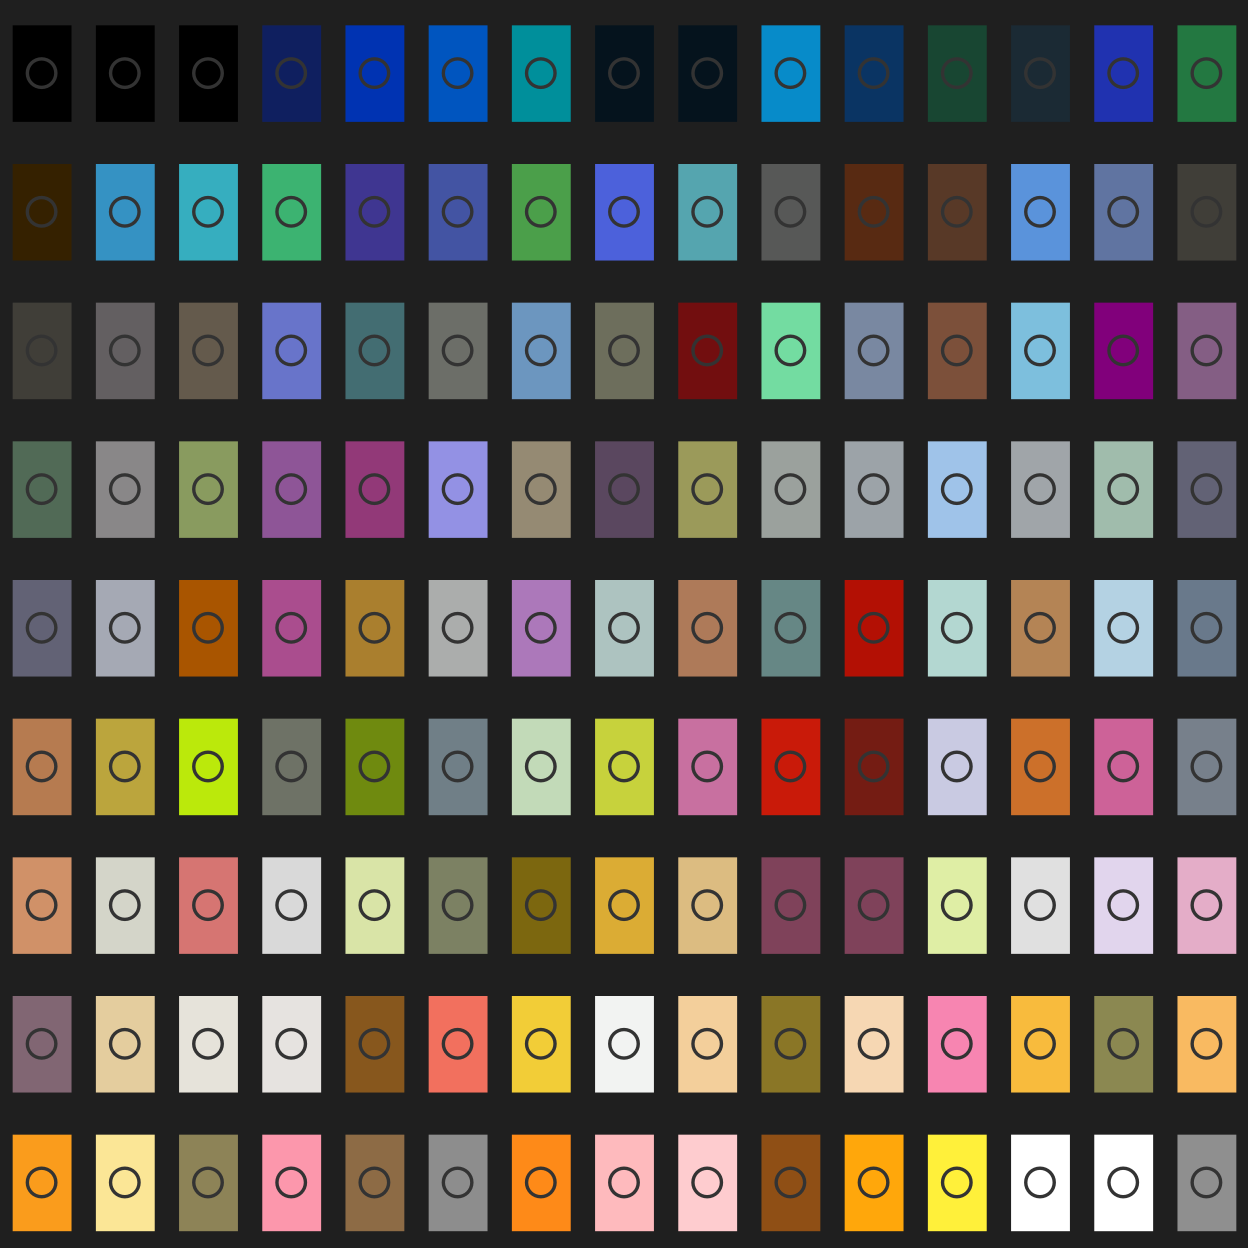
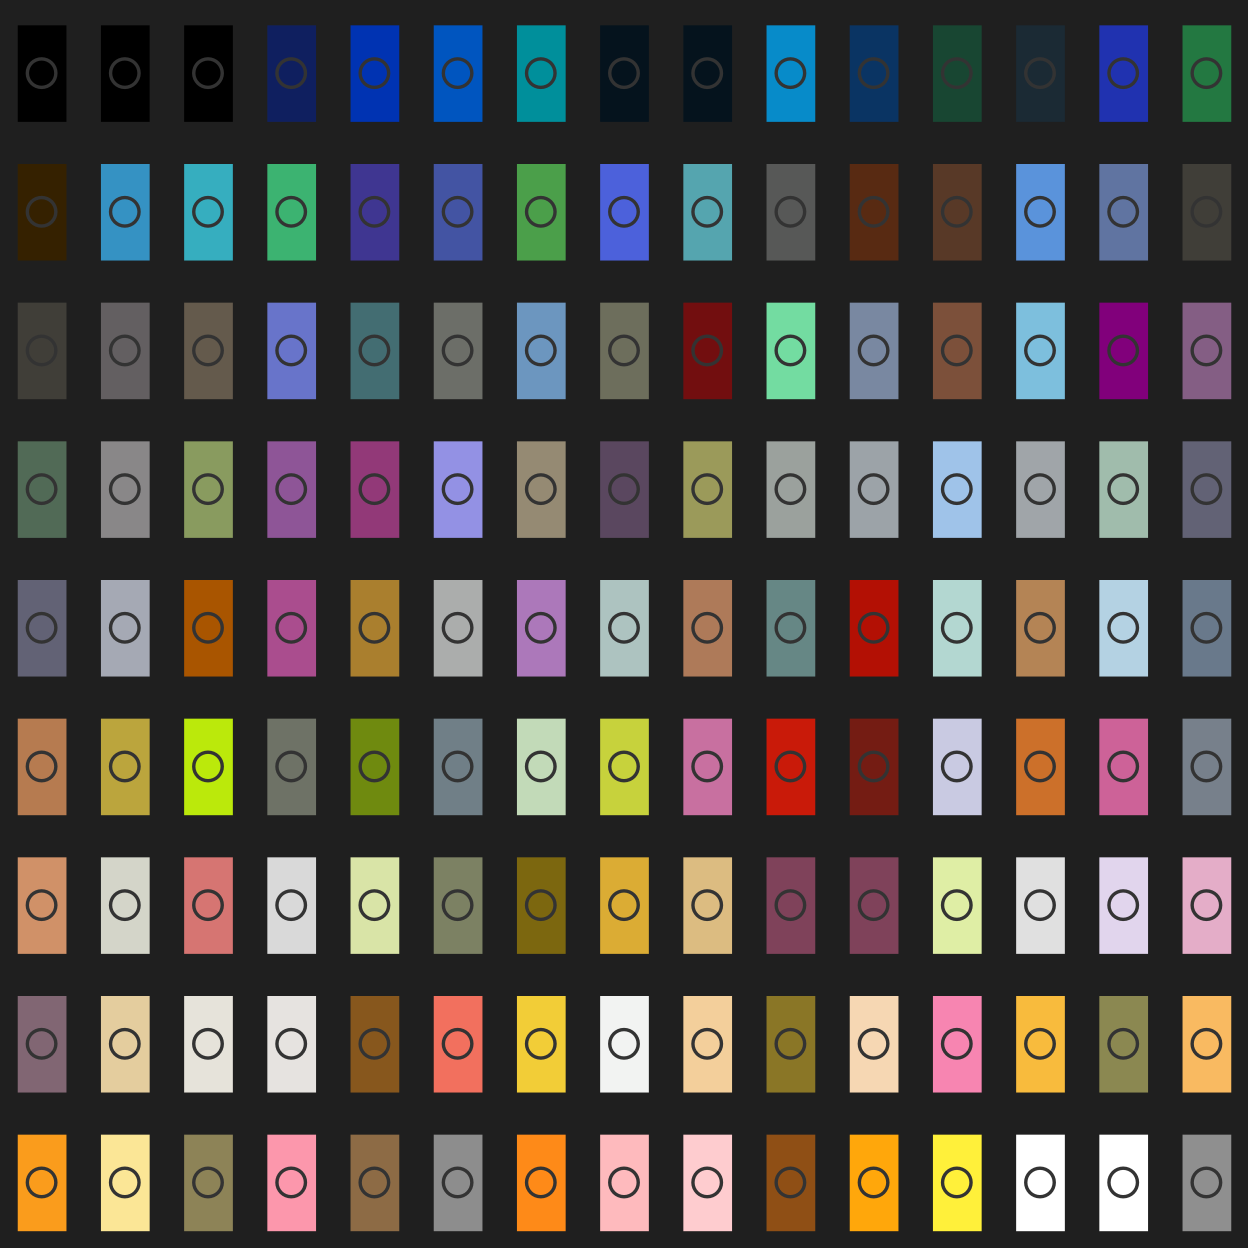
copy-edit lego1

diff --git a/content/post/lego-sql-part1.html b/content/post/lego-sql-part1.html
@@ -1,30 +1,37 @@
 ---
-title: "Exploring the Lego dataset with SQL and dplyr"
+title: "Exploring the Lego dataset with Postgres and dplyr"
 author: "Nathanael Aff"
 date: 2017-07-25T23:13:14-05:00
-categories: ["R", "Statistics"]
+categories: ["Data Science","R" ]
 tags: ["R", "SQL", "eda"]
 ---
 
 
 
-<div id="databases-and-r-analysis" class="section level1">
-<h1>Databases and R analysis</h1>
-<p>There are a number of reasons why using relational databases for your data analyses can be a good practice: doing so requires cleaning and tidying your data, it helps preserve data integrity, and it eases the memory burden of locally analyzing larger datasets. In this tutorial, we will be using the <a href="https://www.kaggle.com/rtatman/lego-database">lego dataset</a>. It’s moderately sized at 3 MB and the data comes from a relational database, so it has already been cleaned and <a href="https://en.wikipedia.org/wiki/Database_normalization">normalized</a>. This means we can focus on creating and querying the database.</p>
-<p>The main goal of this and a planned follow-up tutorial is to introduce several packages useful for handling SQL databases in R. In this tutorial, we will walk through setting up a database and tables using the <code>RPostgreSQL</code> package. In part two we will use the data-manipulation ‘verbs’ from the <code>dplyr</code> package to query and transform the data.</p>
-<p>For the most part, everything will be done from within R and commands should run on any R installation. The major exception is the initial installation of a Postgres database, but I will point to resources for installing and setting up a user in Postgres. The post should be accessible to a beginner to intermediate R user. Some familiarity with SQL syntax and your systems command line might be helpful.</p>
+<p>There are a number of reasons why using relational databases for your data analyses can be a good practice: doing so requires cleaning and tidying your data, it helps preserve data integrity, and it means you can avoid loading a full dataset into memory. In this tutorial, we will be using the <a href="https://www.kaggle.com/rtatman/lego-database">lego dataset</a>. It’s moderately sized at 3 MB and the data comes from a relational database, so it has already been cleaned and <a href="https://en.wikipedia.org/wiki/Database_normalization">normalized</a>. This means we can focus on creating and querying the database.</p>
+<p>The main goal of this and a planned follow-up tutorial is to introduce several packages useful for handling SQL databases in R. In this tutorial, we will walk through setting up a Postgres database with the <code>RPostgreSQL</code> package. The <code>RPostgreSQL</code> package is one of several packages that use the standardized interface to relational databases provided by the <code>DBI</code> package. This means that, aside from setting up the initial connection to the database, the code here could be used with another database for which the <code>DBI</code> interface has been implemented. For example, the <code>RMySQL</code> and <code>RSQLite</code> are available for the SQLite and MySQL databases.</p>
+<p>In part two we use the data manipulation verbs provided by the <code>dplyr</code> package to query and transform the data. The <code>dplyr</code> package allows you to select, filter, and mutate data stored in a database directly and without the need for using the full-fledged SQL commands. RStudio has a nice overview of database related packages <a href="https://db.rstudio.com/">here</a>.</p>
+<p>For the most part, everything will be done from within R and commands the code should run on any R installation. The major exception is the initial installation of a Postgres database, but I will point to resources for installing and setting up a user in Postgres. There are two other small exceptions and I’ll point this out as they come up. The post should be accessible to a beginner to intermediate R user. Some familiarity with SQL syntax and your systems command line might be helpful.</p>
 <p>The lego dataset can be downloaded manually from <a href="https://www.kaggle.com/rtatman/lego-database">Kaggle</a> with an account. I have mirrored the dataset on S3 to simplify the download step.</p>
 <p>Before getting started install <a href="https://www.postgresql.org/download/">postgreSQL</a>. See the <a href="https://wiki.postgresql.org/wiki/Detailed_installation_guides">installation page</a> for more detailed instruction and there are more <a href="http://www.postgresqltutorial.com/">tutorials here</a>. Once installed you should have a <strong>user</strong> and <strong>password</strong> with which you can set up a database.</p>
+<div id="related-tutorials" class="section level3">
+<h3>Related Tutorials</h3>
+<ul>
+<li><p><a href="http://www.datacarpentry.org/R-ecology-lesson/05-r-and-databases.html">This Data Carpentry</a> tutorial gives an introduction to using <code>dplyr</code> with SQLite and jumps directly into using <code>dplyr</code> syntax.</p></li>
+<li><p><a href="https://channel9.msdn.com/Events/useR-international-R-User-conferences/useR-International-R-User-2017-Conference/Interacting-with-databases-from-Shiny">This UseR2017 talk</a> by Barbara Borge Ribeiro give a quick overview of programmatically accessing relational databases from R</p></li>
+<li><p>Software Carpentry has a introductory tutorial for using databases and SQL which includes lessons for Python and R <a href="https://swcarpentry.github.io/sql-novice-survey/">here</a>.</p></li>
+</ul>
+</div>
 <div id="setup-and-download" class="section level2">
 <h2>Setup and download</h2>
-<p>In addition to <code>dplyr</code> and <code>RPostgreSQL</code>, we will use the <code>readr</code> package was has an enhanced method for reading csv files.</p>
+<p>In addition to <code>dplyr</code> and <code>RPostgreSQL</code>, we will use the <code>readr</code> package was has an enhanced method for reading csv files. Throughout the code I will be using the ‘::’ operator to identify the namespace R searches for function calls from these packages. Calling functions this way avoids the need to load a package using <code>library()</code> or <code>require()</code>, and it makes explicit what package individual functions come from. The exception is the pipe operator “%&gt;%”, which I use the <code>import</code> package to make available to the current session.</p>
 <pre class="r"><code># install.packages(&quot;dplyr&quot;)
 # install.packages(&quot;RPostgreSQL&quot;)
 # install.packags(&quot;readr&quot;)
-library(readr)
-library(dplyr)
-library(RPostgreSQL)</code></pre>
-<p>Create a project directory – I’ll be calling it ‘lego-project’ – and set your current directory to that folder. There are a lot of unhelpful warnings so I’m suppressing those for the session by setting the option <code>options(warn=-1)</code>.</p>
+# install.packages(&quot;import&quot;) 
+# Make pipe available -- added to &quot;imports&quot; environment
+import::from(dplyr, &quot;%&gt;%&quot;)</code></pre>
+<p>First, we need to create a project directory – I’ll be calling it ‘lego-project’ – and set your current directory to that folder. There are a lot of unhelpful warnings so I’m suppressing those for the session by setting the option <code>options(warn=-1)</code>.</p>
 <pre class="r"><code>setwd(&quot;~/path/to/my/lego-project&quot;)
 # Supress warnings for this session
 options(warn=-1)</code></pre>
@@ -39,7 +46,7 @@ files &lt;- unzip(tmp)</code></pre>
 </div>
 <div id="check-out-the-data" class="section level2">
 <h2>Check out the data</h2>
-<p>Now we should have the csv files unzipped and the file names in <code>files</code>. If you look at the files you’ll see it includes 8 csv files and one image named <code>downloads_schema.png</code>. This contains the schema for the database the files came from. This details primary and foreign keys and constraints which we won’t be using here. The schema will come in handy in the next tutorial, however.</p>
+<p>Now we should have the csv files unzipped and the file names in <code>files</code>. If you look at the files you’ll see it includes 8 csv files and one image named <code>downloads_schema.png</code>. This contains the schema for the database the files came from. This details primary and foreign keys and constraints which we won’t be using here. The schema will come in handy in the next tutorial, however, when we need to join data from multiple tables.</p>
 <p>For now we remove it from the <code>files</code> list and grab the filenames for later use. If you have not used the pipe function <code>%&gt;%</code>, imported by <code>dplyr</code>, it sends output from the left-hand function to the next function and the <code>.</code> is a placeholder argument representing that output.</p>
 <pre class="r"><code># Check files names
 files 
@@ -50,17 +57,18 @@ filenames &lt;- files %&gt;% sub(&quot;./&quot;, &quot;&quot;, .) %&gt;% sub(&qu
 <p>Here we glance at the first few rows of the data. Several featurs make it a nice alternative to the base <code>read.csv</code> function: <code>read_csv</code> reports the data type of each imported column; It also does not convert strings to factors by default, i.e., <code>stringsAsFactors = FALSE</code>. The result of the function is a <code>tibble</code> which can be treated as a data.frame. Glancing at the <code>head()</code> of the tibble will also report column types.</p>
 <pre class="r"><code># Glance at head of color
 readr::read_csv(files[1], n_max = 5)
+# Look at heads of all files
 lapply(files, readr::read_csv, n_max = 5)</code></pre>
-<p>For a larger dataset, it might also be useful to check the number of rows of data. I’m going to use the <code>system</code> function to make a call to <code>wc</code>. This is system dependent but should work on Linux or macOS and is an efficient way to get the newline count of a file. I’ll turn this into a function so we can use lapply to iterate over the files.</p>
+<p>For a larger dataset, it might also be useful to check the number of rows of data. I’m going to use the <code>system</code> function to make a call to <code>wc</code>. This is system dependent but should work on Linux or macOS and is an efficient way to get the newline count of a file. I’ll turn this into a function so we can use lapply to iterate over the files. (I’ve commented out a similar function for Windows but I haven’t tested that function.)</p>
 <pre><code># For Linux/Unix or Mac
 count_rows &lt;- function(filename){
   system(paste(&quot;wc -l&quot;, filename))
 }
 out &lt;- lapply(files, count_rows)
 # For Windows (did not test)
-count_rows &lt;- function(filename){
-  system(paste(&quot;nd /c /v &#39;A String that is extremely unlikely to occur&#39;,
-        filename))
+# count_rows &lt;- function(filename){
+#  system(paste(&quot;nd /c /v &#39;A String that is extremely unlikely to occur&#39;,
+#        filename))
 </code></pre>
 <p>At this point, we have an overview of the data types and size of each file. The data are either integers or strings. One possibility would be to update, for example, the <code>is_trans</code> field in colors to be a boolean or logical data type. To keep it simple we will be importing the data types as is.</p>
 </div>
@@ -68,34 +76,35 @@ count_rows &lt;- function(filename){
 <h2>Make the database</h2>
 <p>Now we have checked out all the ingredients ready can create our database. You’ll need a working installation of PostgreSQL and the username and password for an account. The following <code>db</code> functions are from the <code>RPostgreSQL</code>(and <code>DBI</code>) package.</p>
 <p>In this example, we’ll use your password as plain text in the script. This isn’t the best practice and I give an alternative below.</p>
-<p>First, we identify the database driver we’ll be using and setup the connection, <code>con</code>, which we can use both create and query the database.</p>
-<pre class="r"><code># Create a connection to the postgresql 
-pg = dbDriver(&quot;PostgreSQL&quot;)
+<p>First, we identify the database driver we’ll be using and setup the connection, <code>con</code>, which we can use both create and query the database. To use another database, only the first line would need to be changed. If you already had SQLite installed, for example, just load the <code>RSQLite</code> packages and call the analagous function to retrieve the SQLite driver. The remaining DBI calls should work, give or take variations in SQL syntax.</p>
+<pre class="r"><code># Access Postgres driver 
+pg = RPostgreSQL::PostgreSQL()
 # Note fake user/password
-con = dbConnect(pg, 
-                user = &quot;my-username&quot;, 
-               password = &quot;#my-password&quot;, 
-               host = &quot;localhost&quot;, 
-               port = 5432)</code></pre>
+con = DBI::dbConnect(pg, 
+                     user = &quot;my-username&quot;, 
+                     password = &quot;#my-password&quot;, 
+                     host = &quot;localhost&quot;, 
+                     port = 5432
+                     )</code></pre>
 <p>If all has gone well we now have a connection to the Postgres and can create our database. With the <code>dbSendQuery</code> command we use any standard PostgreSQL command. We create the database with “create database legos”. and then test use the <code>dbReadTable</code> to create tables. For each csv file, we create a single table using the <code>filenames</code> we created earlier.</p>
-<pre class="r"><code>dbSendQuery(con, &quot;create database legos&quot;)
+<pre class="r"><code>DBI::dbSendQuery(con, &quot;create database legos&quot;)
 # Test writing one file to the database
 colors &lt;- readr::read_csv(files[1])
-dbWriteTable(con, &quot;colors&quot;, colors , row.names=FALSE)
+DBI::dbWriteTable(con, &quot;colors&quot;, colors , row.names=FALSE)
 # Check that it works
-dtab &lt;- dbReadTable(con, &quot;colors&quot;)
+dtab &lt;- DBI::dbReadTable(con, &quot;colors&quot;)
 summary(dtab)
 # Write all files to the database
 for(k in seq_along(files[1:8])){
   cat(&quot;Writing &quot;, filenames[k], &quot;/n&quot;)
   tmp &lt;- readr::read_csv(files[k])
-  dbWriteTable(con, filenames[k], tmp, row.names=FALSE)  
+  DBI::dbWriteTable(con, filenames[k], tmp, row.names=FALSE)  
   rm(tmp)
 }
-dtab &lt;- dbReadTable(con, &quot;sets&quot;)
+dtab &lt;- DBI::dbReadTable(con, &quot;sets&quot;)
 summary(dtab)
 # Close connection
-dbDisconnect(con)</code></pre>
+DBI::dbDisconnect(con)</code></pre>
 <p>At this point, our database has been created and we’re ready to do some analyses. If we were creating a database which we’d be adding more rows to in the future it would be good to define key constraints or specify our column types in more detail.</p>
 </div>
 <div id="interlude-password-encryption-with-keyringr" class="section level2">
@@ -109,10 +118,10 @@ setwd(&quot;~/path/to/my/lego-project&quot;)
 # Get filenames again
 filenames &lt;- dir() %&gt;% sub(&quot;.csv&quot;, &quot;&quot;, .)
 install.packages(&quot;keyringr&quot;)
-library(keyringr)
+
 # Replace plaintext password with keyringr call
-pg = dbDriver(&quot;PostgreSQL&quot;)
-con = dbConnect(pg, 
+pg = RPostgreSQL::PostgreSQL()
+con = DBI::dbConnect(pg, 
                 user = &quot;postgres&quot;, 
                 password = keyringr::decrypt_gk_pw(&quot;db lego user myusername&quot;), 
                 host = &quot;localhost&quot;, 
@@ -122,22 +131,22 @@ con = dbConnect(pg,
 <div id="checking-the-database-schema" class="section level2">
 <h2>Checking the database schema</h2>
 <p>We retrieved two tables above to verify that they had been created. It would be nice to verify all the tables were created and to check the database’s current schema. Since we have a list of the table names, we’ll create a function that takes the table names so we can loop over the functions with lapply.</p>
-<p>The <a href="https://www.postgresql.org/docs/9.1/static/information-schema.html">information schema</a> is a set of views containing information about the database, user roles, data types, etc. We will query the column view to check the data type and maximum character length.</p>
-<p>When <code>dbSendQuery</code> does not return data until we call the <code>dbFetch</code> function. If you have not fetched the data you’ll get an error about ‘impending rows’. Clear the list with <code>dbClearResult(dbListResults(con)[[1]])</code>.</p>
+<p>The <a href="https://www.postgresql.org/docs/9.1/static/information-schema.html">information schema</a> is a set of views containing information about the database, user roles, column data types and a lot more. We will query the column view to check the data type and maximum character length.</p>
+<p>A side note: The <code>dbSendQuery</code> function does not return data until we call the <code>dbFetch()</code>. If you have not fetched the data you’ll get an error about ‘impending rows’. Clear the list with <code>dbClearResult(dbListResults(con)[[1]])</code>.</p>
 <pre class="r"><code># Function to check table schema
 get_schema_query &lt;- function(tab){
   paste0(&quot;select column_name, data_type, character_maximum_length&quot;, 
   &quot; from INFORMATION_SCHEMA.COLUMNS where table_name = &#39;&quot;,tab,&quot;&#39;;&quot;)
 }
 # Check an example
-res &lt;- dbSendQuery(con, get_schema_query(&quot;sets&quot;))
-dbFetch(res)
-dbClearResult(res)
+res &lt;- DBI::dbSendQuery(con, get_schema_query(&quot;sets&quot;))
+DBI::dbFetch(res)
+DBI::dbClearResult(res)
 # Create function from previous example
 check_schemas &lt;- function(tab){
-  res &lt;- dbSendQuery(con, get_schema_query(tab))
-  out &lt;- dbFetch(res)
-  dbClearResult(res)
+  res &lt;- DBI::dbSendQuery(con, get_schema_query(tab))
+  out &lt;- DBI::dbFetch(res)
+  DBI::dbClearResult(res)
   out
 }
 # Check all tables
@@ -149,19 +158,19 @@ names(schemas) &lt;- filenames  </code></pre>
 <p>In the next tutorial, I’ll go over using <code>dplyr</code> functions to do some basic querying of the data. But we’ve made it this far so let’s plot something. We’ll query the color data set and plot all the colors used in lego sets since 1950.</p>
 <p>Colors are stored in the <code>rgb</code> column and transparency in <code>is_trans</code>. Here we pass <code>dbSendQuery</code> a basic SQL select command.</p>
 <pre class="r"><code># Select rgb and is_trans columns
-res &lt;- dbSendQuery(con, &quot;select rgb, is_trans from colors&quot;)
-rgb_df &lt;- as_tibble(dbFetch(res))
-dbClearResult(res)
+res &lt;- DBI::dbSendQuery(con, &quot;select rgb, is_trans from colors&quot;)
+rgb_df &lt;- DBI::dbFetch(res)
+DBI::dbClearResult(res)
 # Check data
 dim(rgb_df)
 head(rgb_df)</code></pre>
-<p>The data columns have the data type character. The <code>rgb</code> colors are in hexadecimal which R can read fine. The values do not reflect the transparency. We use two <code>dplyr</code> verbs to count the number of transparent colors. In the next line, we add a column with the color adjusted for transparency. The <code>ifelse</code> statement sets the new column, named <code>rgbt</code>, to the straight <code>rgb</code> value if <code>is_trans</code> is false, otherwise, it adds an alpha value determined by the <code>adjustcolor</code> function.</p>
+<p>The data columns have the data type character. The <code>rgb</code> colors are in hexadecimal which R can read fine. The values, however, don’t reflect the transparency. We use two <code>dplyr</code> verbs to count the number of transparent colors. In the next line, we add a column with the color adjusted for transparency. The <code>ifelse</code> statement sets the new column, named <code>rgbt</code>, to the straight <code>rgb</code> value if <code>is_trans</code> is false, otherwise, it adds an alpha value determined by the <code>adjustcolor</code> function.</p>
 <pre class="r"><code>rgb_df$rgb &lt;- paste0(&quot;#&quot;, rgb_df$rgb) 
 head(rgb_df)
 # Count number of transparent colors
-rgb_df %&gt;% filter(is_trans == &quot;t&quot;) %&gt;% count()
+rgb_df %&gt;% dplyr::filter(is_trans == &quot;t&quot;) %&gt;% dplyr::count()
 # And rgb + alpha column
-rgb_df &lt;- rgb_df %&gt;% mutate(rgbt = ifelse(is_trans ==  &quot;f&quot;, rgb,adjustcolor(rgb, 0.5)))</code></pre>
+rgb_df &lt;- rgb_df %&gt;% dplyr::mutate(rgbt = ifelse(is_trans ==  &quot;f&quot;, rgb,adjustcolor(rgb, 0.5)))</code></pre>
 <p>Now we plot the results. The <code>sort</code> function orders the hex values alphanumerically, which isn’t a perfect color sorting but it’s not too bad either. The second version of the plot breaks the colors into two plots to make</p>
 <pre class="r"><code>par(bg = &quot;gray10&quot;, mar = c(2,1,2,1))
 barplot(
@@ -172,7 +181,7 @@ barplot(
         space = 0
         )</code></pre>
 <p><img src="/post/lego-sql-part1_files/figure-html/unnamed-chunk-2-1.png" width="624" style="display: block; margin: auto;" /></p>
-<p>Cool. But what if plot them all with a little more area? We define the function <code>draw_lego</code> to draw the single rectangle</p>
+<p>Cool, although it’s hard to tell what affect transparency has. But what if plot them all with a little more area? We define the function <code>draw_lego</code> to draw the single rectangle</p>
 <pre class="r"><code># Draw a single square
 draw_lego &lt;- function(col){
   plot(5,5, type = &quot;n&quot;, axes = FALSE)
@@ -191,14 +200,14 @@ draw_lego &lt;- function(col){
 op &lt;- par(bg = &quot;gray12&quot;)
 plot.new()
 
-par(mfrow = c(9, 15), mar = c(0.7, 0.5, 1, 0.5))
+par(mfrow = c(9, 15), mar = c(0.7, 0.7, 1, 0.7))
 cols &lt;- sort(rgb_df$rgbt)
 for(k in 1:length(cols))  draw_lego(cols[k])</code></pre>
 <p><img src="/post/lego-sql-part1_files/figure-html/squares-1.png" width="624" style="display: block; margin: auto;" /></p>
-<p>Maybe a little corny, not perfect, but good enough for now.</p>
-<p>In the follow-up post, I’ll go over using <code>dplyr</code> to query, filter, and transform data from our lego database. In order to look at more aspects of the data, we’ll also need to do some basic joins. I’ll put it together to look at how lego colors have changed over time.</p>
-<pre class="r"><code>dbDisconnect(con)
+<p>Maybe a little corny, but good enough for now.</p>
+<p>In the follow-up post, I’ll go over using <code>dplyr</code> to query, filter, and transform data from our lego database. In order to explore the data in more detail, we’ll also need to do some basic joins.</p>
+<p>Finally, for this session, we need to clean up the open connection and reset the warnings option.</p>
+<pre class="r"><code>DBI::dbDisconnect(con)
 # Unsupress warnings
 options(warn= 0)</code></pre>
-</div>
 </div>

diff --git a/content/post/fd1.html b/content/post/fd1.html
@@ -2,7 +2,7 @@
 title: "Fractal dimension"
 author: "Nathanael Aff"
 date: 2017-06-14T21:13:14-05:00
-categories: ["R", "Statistics"]
+categories: ["Math", "Statistics", "Time Series"]
 tags: ["R", "Time Series"]
 ---
 
